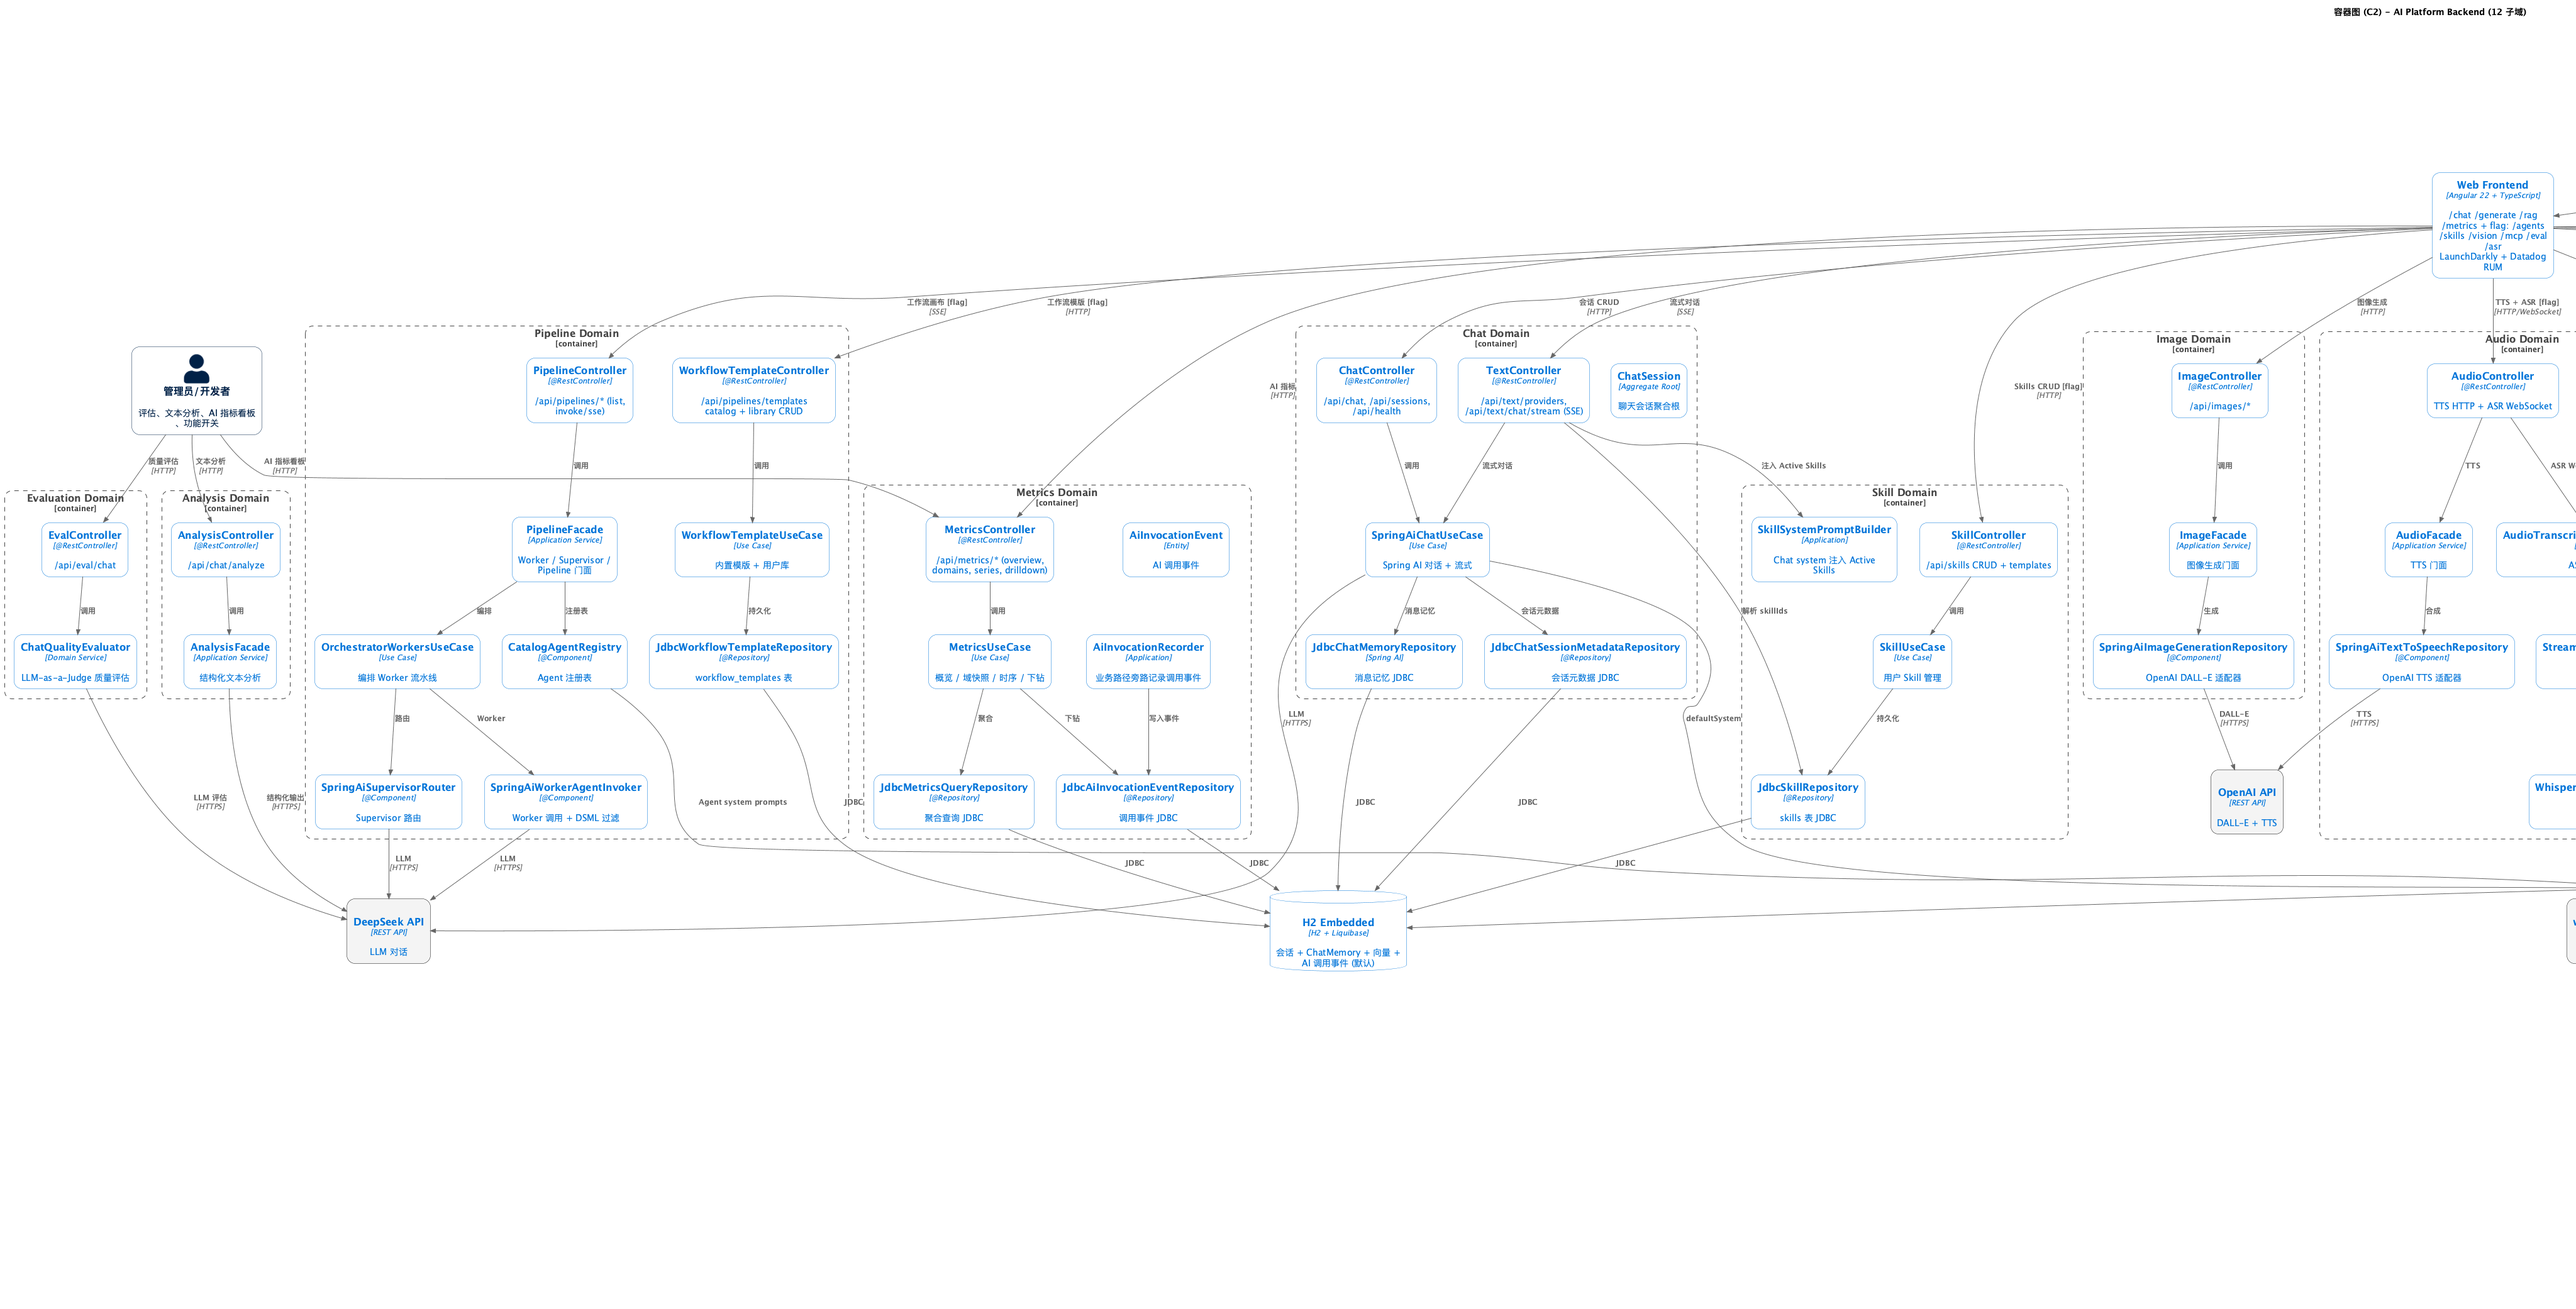
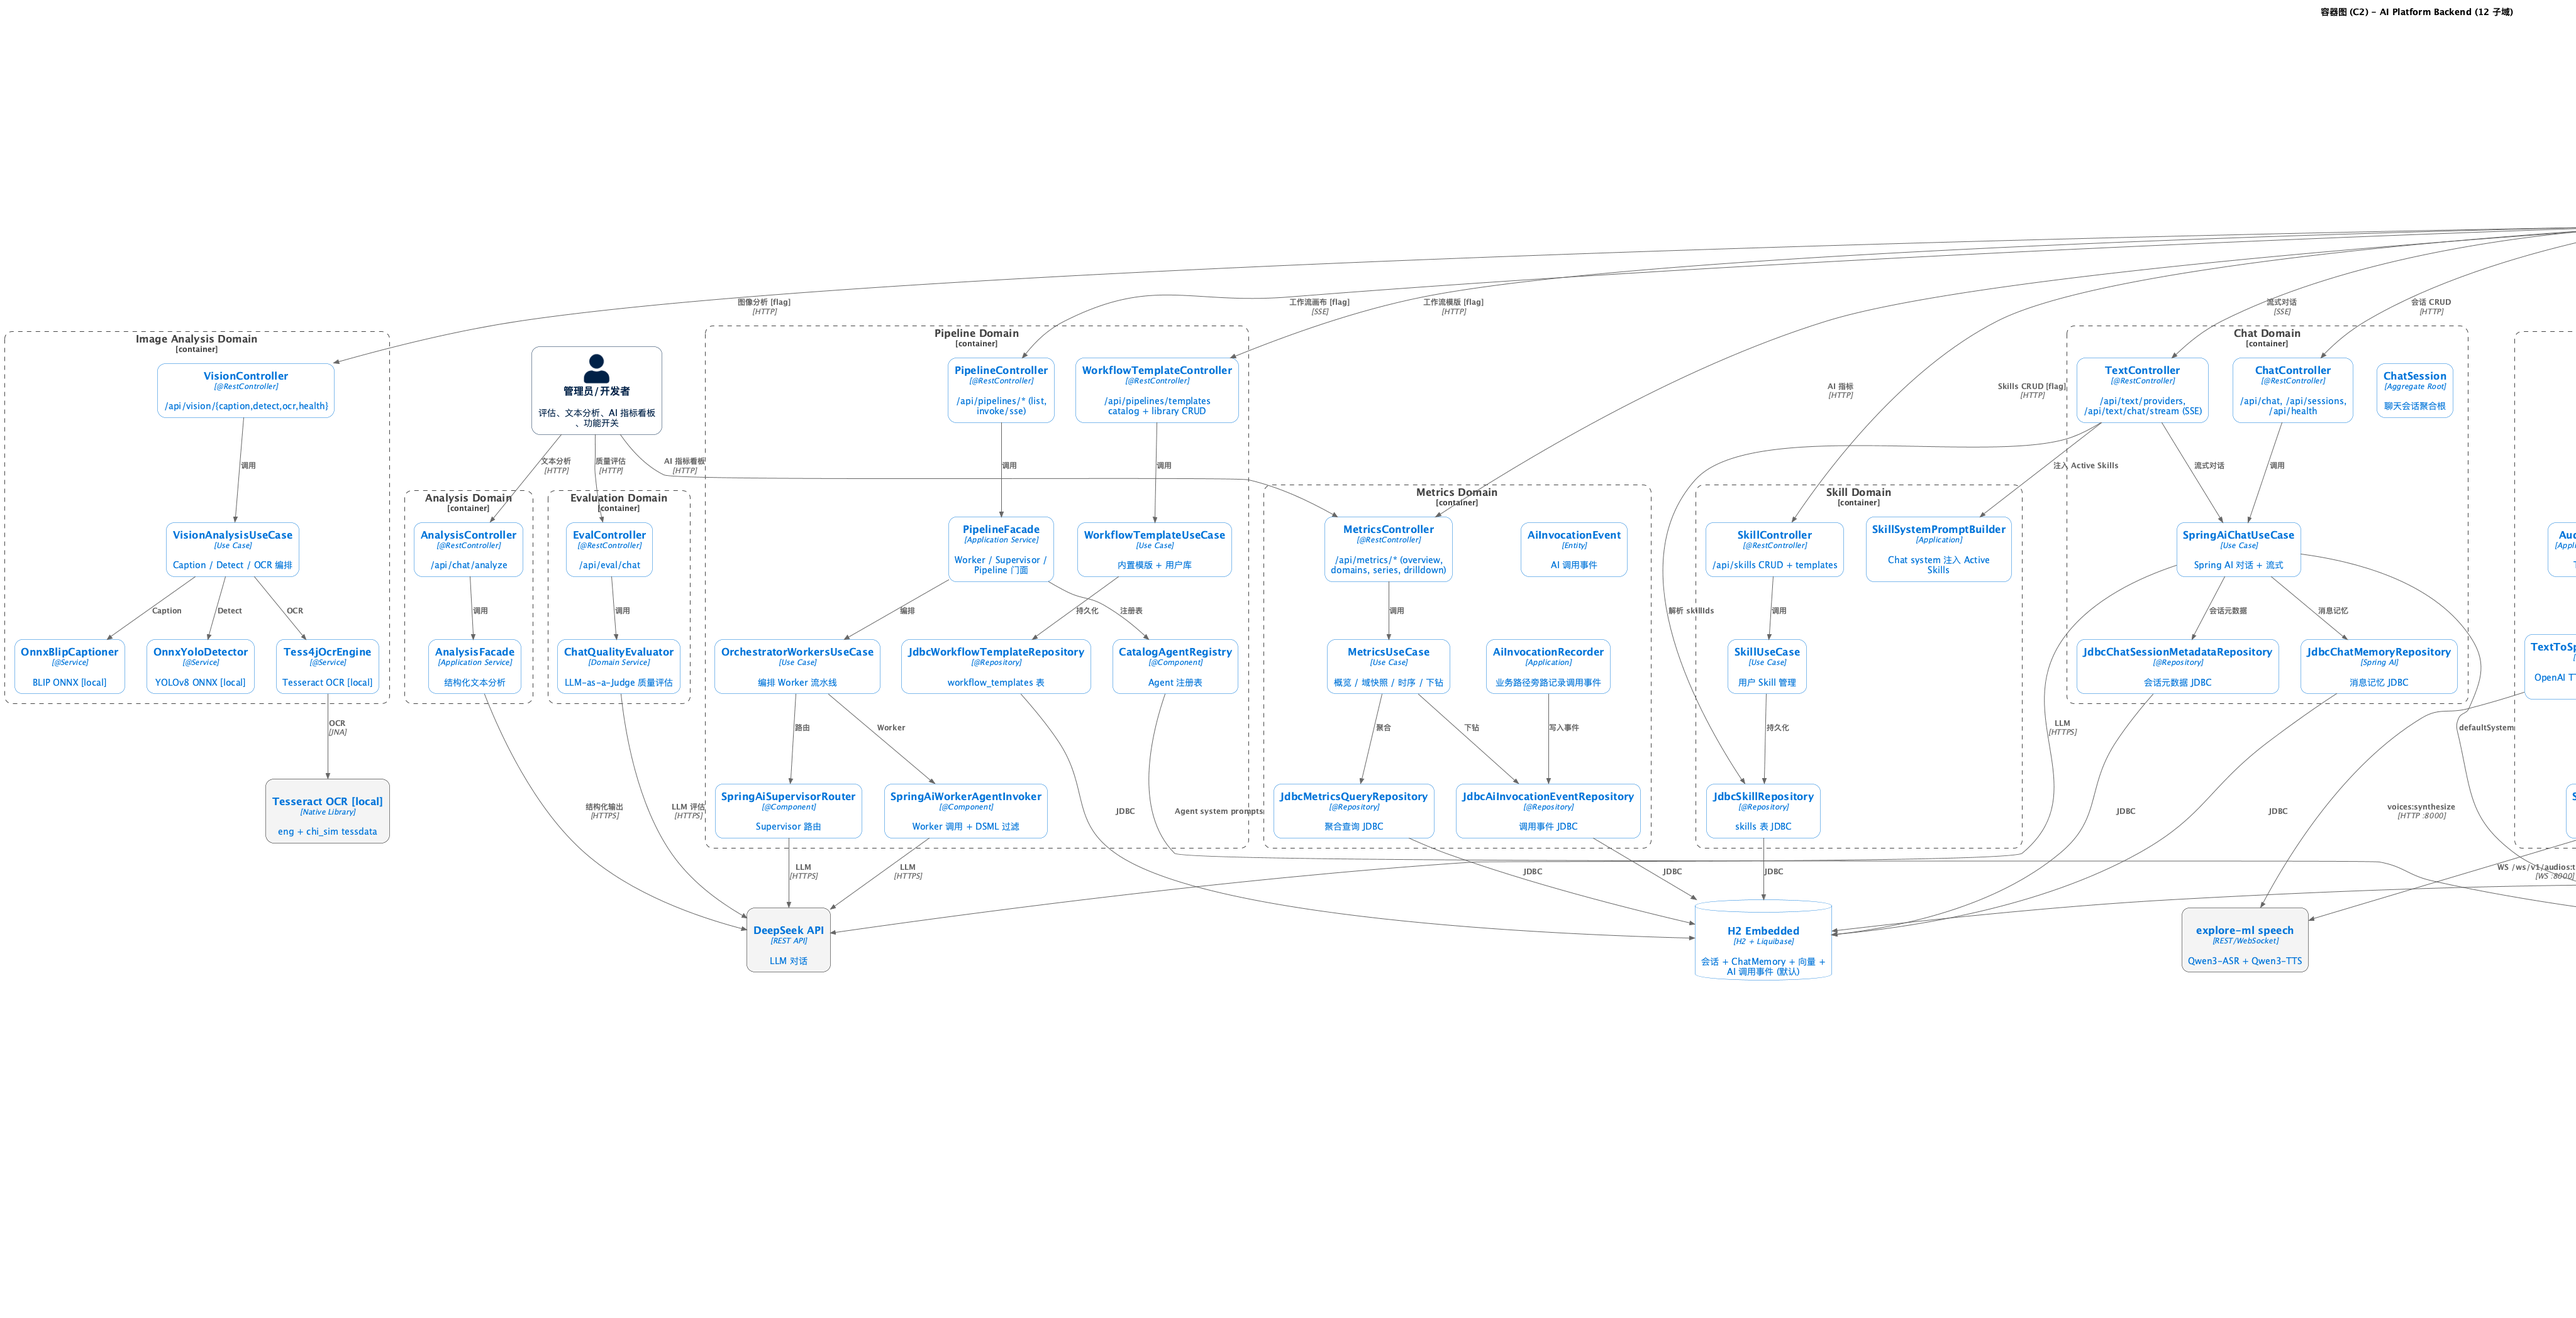
Point AI docs at Explore ML on port 8000 (#503)
The API now reaches Explore ML speech through one base URL on :8000,
so the Glossary, API guide, iOS README and C4 context, container and
deployment views stop citing the retired :8004 speech helper and
SPEECH_API_URL. The image-playground port row is removed because the
AI API never calls it.

References:

- https://github.com/felixzhu97/explore-ml/pull/62
- https://c4model.com/diagrams/deployment

diff --git a/docs/Glossary.md b/docs/Glossary.md
@@ -342,10 +342,10 @@ UPLOADING → PROCESSING → READY
 | Speech Text                        | 语音文本   | Validated text input for TTS               | Value Object        | `SpeechText`                         | —                                                     |
 | Synthesized Audio                  | 合成音频   | Domain result of TTS conversion            | Value Object        | `SynthesizedAudio`                   | Audio bytes                                           |
 | Synthesize                         | 合成     | Execute text-to-speech conversion          | Use Case Behavior   | `AudioFacade.synthesize()`           | POST `/api/audio/speak` (alias `/api/tts/synthesize`) |
-| Automatic Speech Recognition (ASR) | 自动语音识别 | Convert spoken audio to text               | Capability          | `StreamingTranscriptionUseCase`      | explore-ml Qwen3-ASR via speech (`:8004`); flag `module-audio-asr` |
+| Automatic Speech Recognition (ASR) | 自动语音识别 | Convert spoken audio to text               | Capability          | `StreamingTranscriptionUseCase`      | explore-ml Qwen3-ASR via speech (`:8000`); flag `module-audio-asr` |
 | Streaming Transcription            | 流式转写   | Real-time ASR over WebSocket               | Use Case Behavior   | `AudioTranscriptionWebSocketHandler` | Product `WS /ws/audio/transcribe` → speech `/ws/v1/audios:transcribe` |
 | Transcription                      | 转写     | Single ASR result converting audio to text | Application Concept | `StreamingTranscriptionGateway`      | `SpeechStreamingTranscriptionAdapter` |
-| Voice Conversation                 | 语音对话   | Duplex mic → ASR → chat → TTS on native clients | Capability     | AI iOS Chat (Qwen)                   | ChatGPT-style UI; Qwen3 ASR/TTS via speech `:8004` |
+| Voice Conversation                 | 语音对话   | Duplex mic → ASR → chat → TTS on native clients | Capability     | AI iOS Chat (Qwen)                   | ChatGPT-style UI; Qwen3 ASR/TTS via speech `:8000` |
 
 
 ---

diff --git a/docs/developer/c4-model/README.md b/docs/developer/c4-model/README.md
@@ -191,7 +191,7 @@ RAG 检索经 `H2SpringAiVectorStore`（Spring AI `VectorStore` SPI）+ `VectorS
 ```
 Browser :4200 → Angular Dev Server → proxy /api/* → Spring Boot :9000
                                               ↘ H2 ./data/explore-ai
-                                              ↘ Ollama :11434 / speech :8004 / Tesseract
+                                              ↘ Ollama :11434 / explore-ml :8000 / Tesseract
                                               ↘ DeepSeek / OpenAI / Serper / Resend
 ```
 
@@ -224,8 +224,7 @@ Browser → Vercel (Angular static) → Render Starter explore-ai (:8080 + H2 ep
 | Spring Boot Backend (prod) | **8080** |
 | H2 Embedded | 内嵌 (dev `./data` / prod `/app/data` volume) |
 | Ollama (Embedding/RAG Vision) | 11434 [local] |
-| explore-ml speech (Qwen3 ASR/TTS) | 8004 [local] |
-| explore-ml image-playground | 8003 [local] |
+| explore-ml (speech: Qwen3 ASR/TTS) | 8000 [local] |
 | Tesseract OCR | 系统安装 (JNA) [local] |
 | Image Analysis ONNX Models | `models/` 本地文件 [local] |
 | Angular Dev Server | 4200 |
@@ -259,9 +258,9 @@ Browser → Vercel (Angular static) → Render Starter explore-ai (:8080 + H2 ep
 | Caption | BLIP base ONNX | ONNX Runtime 本地 |
 | Detect | YOLOv8n ONNX | COCO 80 类 |
 | OCR | eng + chi_sim | Tesseract tessdata |
-| ASR | Qwen3-ASR-1.7B | explore-ml speech `:8004` |
+| ASR | Qwen3-ASR-1.7B | explore-ml speech `:8000` |
 | Image Gen | dall-e-3 | OpenAI API |
-| TTS | Qwen3-TTS (default) / gpt-4o-mini-tts | explore-ml speech `:8004` / OpenAI |
+| TTS | Qwen3-TTS (default) / gpt-4o-mini-tts | explore-ml speech `:8000` / OpenAI |
 
 ---
 

diff --git a/docs/developer/api.md b/docs/developer/api.md
@@ -827,7 +827,7 @@ curl -X GET "${BASE_URL}/api/images/qualities"
 
 ## Audio/TTS API
 
-Default provider is **explore-ml speech** (local Qwen3-TTS → WAV on `:8004`).
+Default provider is **explore-ml speech** (local Qwen3-TTS → WAV, Explore ML app on `:8000`).
 Set `TTS_PROVIDER=openai` for OpenAI TTS (MP3).
 
 ### Text to Speech
@@ -972,7 +972,7 @@ curl -X GET "${BASE_URL}/api/audio/models"
 ### WebSocket Streaming Transcription
 
 Real-time speech-to-text via **explore-ml speech** (Qwen3-ASR). Set
-`SPEECH_API_URL` (default `http://localhost:8004`).
+`EXPLORE_ML_API_URL` (default `http://localhost:8000`).
 
 **Endpoint:** `ws://localhost:9000/ws/audio/transcribe`
 
@@ -1006,7 +1006,7 @@ Real-time speech-to-text via **explore-ml speech** (Qwen3-ASR). Set
 
 **Requirements:**
 
-- explore-ml speech running locally (`:8004`) with Qwen3-ASR
+- Explore ML running locally (`:8000`) with the speech module (Qwen3-ASR)
 - Audio: PCM or WAV, 16 kHz mono, base64-encoded
 
 Configure the upstream in `application.yml`:
@@ -1015,7 +1015,7 @@ Configure the upstream in `application.yml`:
 app:
   asr:
     speech:
-      base-url: http://localhost:8004
+      base-url: http://localhost:8000
 ```
 
 ---

diff --git a/src/main/ios/README.md b/src/main/ios/README.md
@@ -17,7 +17,7 @@ After sign-in the root shows **Chat** (no Home).
 - iOS 17+ simulator or device
 - Local Explore IAM (`http://localhost:9100`) and Explore AI API (`http://localhost:9000`)
   with JWT resource server enabled (`APP_OAUTH_EXPLORE_IAM_RESOURCE_SERVER=true`)
-- Voice / dictation: explore-ml **Speech** on `:8004` (Qwen3-ASR + Qwen3-TTS)
+- Voice / dictation: explore-ml **Speech** on `:8000` (Qwen3-ASR + Qwen3-TTS)
 - Physical device uses Mac LAN host `192.168.3.100` (not `localhost`) for API + IAM
 
 ## Open
@@ -38,7 +38,7 @@ open AI.xcodeproj
 
 ## Chat (self-test)
 
-1. Start Speech (`:8004`), AI (`:9000`), IAM.
+1. Start Explore ML (`:8000`), AI (`:9000`), IAM.
 2. Type in the pill composer and send (↑), or:
    - **Mic** — dictate into the draft (Qwen ASR)
    - **Waveform** — full voice turn (ASR → chat → TTS)
